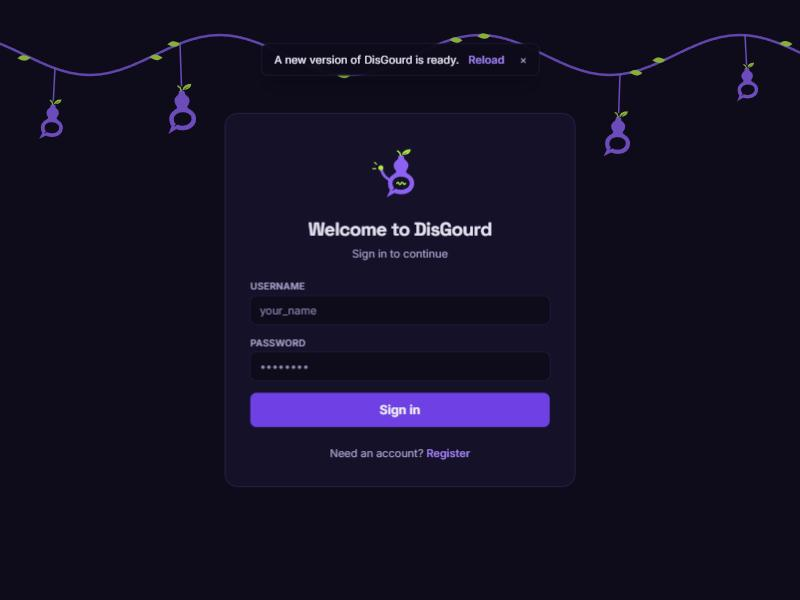
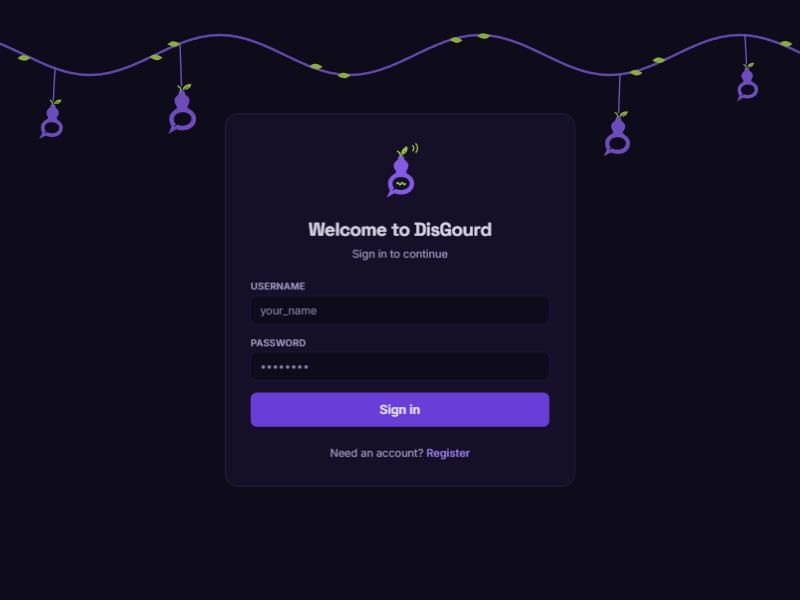
P8-01: upright sleeping pose; the leaf waves instead of an arm (owner feedback)

diff --git a/web/public/offline.html b/web/public/offline.html
@@ -28,7 +28,7 @@
   <body>
     <main>
       <!-- The mascot, asleep (P8; drawn from web/src/mascotParts.js). -->
-      <svg class="mark" xmlns="http://www.w3.org/2000/svg" width="96" height="96" viewBox="-12 -4 120 108" aria-hidden="true"><g transform="rotate(-14 50 92)"><path d="M44.5 24.5 Q44.5 21 48 21 H52 Q55.5 21 55.5 24.5 V26 C55.5 29.5 63.5 31 63.5 39.5 C63.5 45.5 59 47.5 59 51 C59 54 74 57.5 74 71.5 C74 84 63.5 92 50 92 C45.6 92 41.5 91.2 38 89.6 L23.5 97.5 L29.6 84.6 C27.3 80.9 26 76.4 26 71.5 C26 57.5 41 54 41 51 C41 47.5 36.5 45.5 36.5 39.5 C36.5 31 44.5 29.5 44.5 26 Z M37.4 80.4 C35.2 77.9 34 74.9 34 71.6 C34 64.6 41.2 59.6 50 59.6 C58.8 59.6 66 64.6 66 71.6 C66 78.6 58.8 83.8 50 83.8 C46.3 83.8 42.9 83 40.2 81.5 L33.6 85.6 Z" fill="#9466FF" fill-rule="evenodd"/><path d="M49.2 21 C48.8 17.2 46.8 14.3 43.6 12.6" fill="none" stroke="#B8F34A" stroke-width="2.8" stroke-linecap="round" stroke-linejoin="round"/><path d="M51.6 20.2 C52.4 13.4 57.6 9.2 67.8 9.4 C67.6 16 62.2 20.6 51.6 20.2 Z M54.4 18.6 L64.2 12.4 L55.4 19.4 Z" fill="#B8F34A" fill-rule="evenodd"/><path d="M45.5 66 h9 l-9 11 h9" fill="none" stroke="#B8F34A" stroke-width="2.6" stroke-linecap="round" stroke-linejoin="round"/><path d="M73 36 h6 l-6 7 h6" fill="none" stroke="#B8F34A" stroke-width="2.2" stroke-linecap="round" stroke-linejoin="round"/><path d="M83 22 h8 l-8 9 h8" fill="none" stroke="#B8F34A" stroke-width="2.4" stroke-linecap="round" stroke-linejoin="round"/></g></svg>
+      <svg class="mark" xmlns="http://www.w3.org/2000/svg" width="96" height="96" viewBox="-12 -4 120 108" aria-hidden="true"><path d="M44.5 24.5 Q44.5 21 48 21 H52 Q55.5 21 55.5 24.5 V26 C55.5 29.5 63.5 31 63.5 39.5 C63.5 45.5 59 47.5 59 51 C59 54 74 57.5 74 71.5 C74 84 63.5 92 50 92 C45.6 92 41.5 91.2 38 89.6 L23.5 97.5 L29.6 84.6 C27.3 80.9 26 76.4 26 71.5 C26 57.5 41 54 41 51 C41 47.5 36.5 45.5 36.5 39.5 C36.5 31 44.5 29.5 44.5 26 Z M37.4 80.4 C35.2 77.9 34 74.9 34 71.6 C34 64.6 41.2 59.6 50 59.6 C58.8 59.6 66 64.6 66 71.6 C66 78.6 58.8 83.8 50 83.8 C46.3 83.8 42.9 83 40.2 81.5 L33.6 85.6 Z" fill="#9466FF" fill-rule="evenodd"/><path d="M49.2 21 C48.8 17.2 46.8 14.3 43.6 12.6" fill="none" stroke="#B8F34A" stroke-width="2.8" stroke-linecap="round" stroke-linejoin="round"/><path d="M51.6 20.2 C52.4 13.4 57.6 9.2 67.8 9.4 C67.6 16 62.2 20.6 51.6 20.2 Z M54.4 18.6 L64.2 12.4 L55.4 19.4 Z" fill="#B8F34A" fill-rule="evenodd"/><path d="M45.5 66 h9 l-9 11 h9" fill="none" stroke="#B8F34A" stroke-width="2.6" stroke-linecap="round" stroke-linejoin="round"/><path d="M73 36 h6 l-6 7 h6" fill="none" stroke="#B8F34A" stroke-width="2.2" stroke-linecap="round" stroke-linejoin="round"/><path d="M83 22 h8 l-8 9 h8" fill="none" stroke="#B8F34A" stroke-width="2.4" stroke-linecap="round" stroke-linejoin="round"/></svg>
       <h1>You’re offline</h1>
       <p>DisGourd can’t reach your server right now. Your messages will be here when you’re back online.</p>
       <button type="button" onclick="location.reload()">Try again</button>

diff --git a/web/src/mascotParts.js b/web/src/mascotParts.js
@@ -49,21 +49,20 @@ const leaf = [['path', { d: `${LEAF} ${LEAF_VEIN}`, fill: 'L', fillRule: 'evenod
 // Each pose: what's drawn behind the body, the body (with or without its
 // leaf), and what's drawn on top. `tilt` leans the whole gourd.
 export const POSES = {
-  // Hello: one leaf-hand raised, a wave in the bubble.
+  // Hello: the leaf waves (tipped up, with motion marks), a wave in the bubble.
   wave: {
     label: 'waving',
+    noLeaf: true,
     front: [
-      line('M30 66 C21 62 16 55 14 47', 'V', 5),
-      dot(13, 43.5, 4.6),
-      line('M5 37 L1.5 33.5', 'L', 2.2),
-      line('M3.5 45 L-1.5 45', 'L', 2.2),
+      ['g', { transform: 'rotate(-28 51.6 20.2)' }, leaf],
+      line('M71 2 q4.5 4.5 0.5 10', 'L', 2.2),
+      line('M77 -1.5 q6.5 7 0.5 16', 'L', 2.2),
       line('M42 72 q2 -4 4 0 t4 0 t4 0 t4 0'),
     ],
   },
-  // Asleep: leaning over, a z in the bubble and more drifting up.
+  // Asleep: a z in the bubble and more drifting up.
   sleep: {
     label: 'sleeping',
-    tilt: -14,
     front: [line('M45.5 66 h9 l-9 11 h9'), line('M73 36 h6 l-6 7 h6', 'L', 2.2), line('M83 22 h8 l-8 9 h8', 'L', 2.4)],
   },
   // Listening: headphones on, a note in the bubble.

diff --git a/web/src/components/ArtPass.test.jsx b/web/src/components/ArtPass.test.jsx
@@ -16,6 +16,12 @@ const { SERVER_GLYPHS, glyphTileSvg } = await import('../serverGlyphs.js');
 
 afterEach(cleanup);
 
+test('the wave is the leaf tipped up with motion marks, not an arm (owner, 2026-10-20)', () => {
+  const svg = mascotSvg('wave');
+  expect(svg).toContain('rotate(-28 51.6 20.2)');
+  expect(svg).not.toContain('M30 66 C21 62 16 55 14 47'); // the old arm
+});
+
 test('seven poses, each drawn only with the theme colours, no face, and small', () => {
   expect(POSE_NAMES).toEqual(['wave', 'sleep', 'music', 'search', 'confused', 'party', 'shush']);
   for (const pose of POSE_NAMES) {
@@ -42,7 +48,8 @@ test('the static copy (offline page) matches the shapes, with plain colours', ()
   const svg = mascotSvg('sleep', { size: 96 });
   expect(svg).toMatch(/^<svg [^>]*viewBox="-12 -4 120 108"/);
   expect(svg).toContain('#9466FF');
-  expect(svg).toContain('rotate(-14 50 92)');
+  expect(svg).not.toContain('rotate('); // upright: the Zs say asleep (owner, 2026-10-20)
+  expect(svg).toContain('M45.5 66 h9 l-9 11 h9'); // the z in the bubble
 });
 
 test('the sign-in art draws a garland for wide screens and a ground vine for phones, from the theme', () => {

diff --git a/design/art-pass-2026-10/README.md b/design/art-pass-2026-10/README.md
@@ -4,7 +4,7 @@ These are the Phase 4 assets from `design/IMPROVEMENT-PLAN.md`, drawn flat in th
 
 | Asset | Where it lives | Size |
 |---|---|---|
-| Mascot, 7 poses (waving, sleeping, headphones, magnifier, confused, party, shushing) | `web/src/mascotParts.js` (data) → `components/Mascot.jsx`; static copy in `web/public/offline.html` | inline SVG, under 5 KB per pose |
+| Mascot, 7 poses (waving with its leaf, sleeping, headphones, magnifier, confused, party, shushing) | `web/src/mascotParts.js` (data) → `components/Mascot.jsx`; static copy in `web/public/offline.html` | inline SVG, under 5 KB per pose |
 | Sign-in art (a garland on wide screens, a ground vine on phones) | `components/LoginArt.jsx` | inline SVG |
 | 12 ready-made server icons | `web/src/serverGlyphs.js` → `components/GlyphPicker.jsx` | inline SVG; 256 px PNG when picked |
 | Share image, 1200×630 | `web/public/og-image.png` | 13.2 KB |

diff --git a/.dev/features/P8-01-art-pass.md b/.dev/features/P8-01-art-pass.md
@@ -47,6 +47,11 @@ Revision: `ef006a8` (main after #173). Web suite before: 98 files / 761 tests; s
   - At 1024 px, two garland gourds touched the card's edges. I moved them to the outer thirds; there are now 0 overlaps by bounding box.
   - On phones, a corner vine ran under the card and looked cramped. I replaced it with a vine along the bottom, which starts 27 px below the card.
 
+## Owner feedback (2026-10-20)
+- **Sleeping:** drawn upright now; the Zs in the belly say "asleep" on their own.
+- **Waving:** the arm on the left is gone (it didn't read as an arm). The leaf now does the waving, tipped up with two motion marks beside it.
+- The sign-in card, offline page, share image and pose sheet were re-rendered with both changes, and a test checks the wave has no arm.
+
 ## Verification Evidence
 | Acceptance Criterion | Status | Verification Type | Evidence |
 |---|---|---|---|
